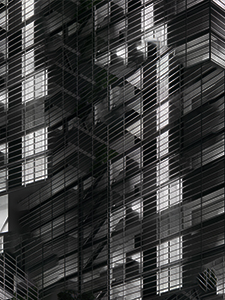
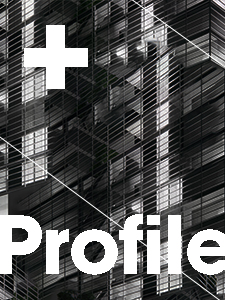
color effect

diff --git a/index.html b/index.html
@@ -51,7 +51,12 @@
         <div class="dot">
           <a href="19.html">
             <img
+              class="imgOrg"
               src="./thumb19.png"
+            />
+            <img
+              class="imgHover"
+              src="./thumb19Mod.png"
             />
           </a>
           <span class="dot__span">City Reincarnation</span>
@@ -59,7 +64,12 @@
         <div class="dot">
           <a href="18.html">
             <img
+              class="imgOrg"
               src="./thumb18.png"
+            />
+            <img
+              class="imgHover"
+              src="./thumb18Mod.png"
             />
           </a>
           <span class="dot__span">The 6th Extiction</span>
@@ -67,7 +77,12 @@
         <div class="dot">
           <a href="17.html">
             <img
+              class="imgOrg"
               src="./대표사진.jpeg"
+            />
+            <img
+              class="imgHover"
+              src="./대표사진Mod.jpeg"
             />
           </a>
           <span class="dot__span">The membrane</span>
@@ -75,7 +90,12 @@
         <div class="dot">
           <a href="16.html">
             <img
+              class="imgOrg"
               src="src/웹사이트 제작용 사진/16. Terraformed Space/대표사진, 텍스트/16thumb.jpg"
+            />
+            <img
+              class="imgHover"
+              src="src/웹사이트 제작용 사진/16. Terraformed Space/대표사진, 텍스트/16thumbMod.jpg"
             />
           </a>
           <span class="dot__span">Terraformed Space</span>
@@ -83,7 +103,12 @@
         <div class="dot">
           <a href="0.html">
             <img
+              class="imgOrg"
               src="src/웹사이트 제작용 사진/15. Micro Climate Control Tower/대표사진, 텍스트/15thumb.jpg"
+            />
+            <img
+              class="imgHover"
+              src="src/웹사이트 제작용 사진/15. Micro Climate Control Tower/대표사진, 텍스트/15thumbMod.jpg"
             />
           </a>
           <span class="dot__span">Micro Climate Control Tower</span>
@@ -91,7 +116,12 @@
         <div class="dot">
           <a href="1.html">
             <img
+              class="imgOrg"
               src="src/웹사이트 제작용 사진/14. Vertiport/대표사진, 텍스트/제목 없음-1.jpg"
+            />
+            <img
+              class="imgHover"
+              src="src/웹사이트 제작용 사진/14. Vertiport/대표사진, 텍스트/제목 없음-1mod.jpg"
             />
           </a>
           <span class="dot__span">Vertiport</span>
@@ -100,7 +130,12 @@
         <div class="dot">
           <a href="2.html">
             <img
+              class="imgOrg"
               src="src/웹사이트 제작용 사진/13. Encounter/대표사진, 텍스트/제목 없음-1.jpg"
+            />
+            <img
+              class="imgHover"
+              src="src/웹사이트 제작용 사진/13. Encounter/대표사진, 텍스트/제목 없음-1mod.jpg"
             />
           </a>
           <span class="dot__span">Encounter</span>
@@ -109,7 +144,12 @@
         <div class="dot">
           <a href="3.html">
             <img
+              class="imgOrg"
               src="src/웹사이트 제작용 사진/12. Open Frame/대표사진, 텍스트/제목 없음-1.jpg"
+            />
+            <img
+              class="imgHover"
+              src="src/웹사이트 제작용 사진/12. Open Frame/대표사진, 텍스트/제목 없음-1mod.jpg"
             />
           </a>
           <span class="dot__span">Open Frame</span>
@@ -118,7 +158,12 @@
         <div class="dot">
           <a href="4.html">
             <img
+              class="imgOrg"
               src="src/웹사이트 제작용 사진/11. Framework/대표사진, 텍스트/제목 없음-1.jpg"
+            />
+            <img
+              class="imgHover"
+              src="src/웹사이트 제작용 사진/11. Framework/대표사진, 텍스트/제목 없음-1mod.jpg"
             />
           </a>
           <span class="dot__span">Framework</span>
@@ -127,7 +172,12 @@
         <div class="dot">
           <a href="5.html">
             <img
+              class="imgOrg"
               src="src/웹사이트 제작용 사진/10. Trinity/대표사진, 텍스트/제목 없음-1.jpg"
+            />
+            <img
+              class="imgHover"
+              src="src/웹사이트 제작용 사진/10. Trinity/대표사진, 텍스트/제목 없음-1mod.jpg"
             />
           </a>
           <span class="dot__span">Trinity</span>
@@ -136,7 +186,12 @@
         <div class="dot">
           <a href="6.html">
             <img
+              class="imgOrg"
               src="src/웹사이트 제작용 사진/9. Panorama/대표사진, 텍스트/제목 없음-1.jpg"
+            />
+            <img
+              class="imgHover"
+              src="src/웹사이트 제작용 사진/9. Panorama/대표사진, 텍스트/제목 없음-1mod.jpg"
             />
           </a>
           <span class="dot__span">Panorama</span>
@@ -145,7 +200,12 @@
         <div class="dot">
           <a href="7.html">
             <img
+              class="imgOrg"
               src="src/웹사이트 제작용 사진/8. Adabtive Frame/대표사진, 텍스트/제목 없음-1.jpg"
+            />
+            <img
+              class="imgHover"
+              src="src/웹사이트 제작용 사진/8. Adabtive Frame/대표사진, 텍스트/제목 없음-1mod.jpg"
             />
           </a>
           <span class="dot__span">Adabtive Frame</span>
@@ -154,7 +214,12 @@
         <div class="dot">
           <a href="8.html">
             <img
+              class="imgOrg"
               src="src/웹사이트 제작용 사진/7. Riminiscence/대표사진, 텍스트/제목 없음-1.jpg"
+            />
+            <img
+              class="imgHover"
+              src="src/웹사이트 제작용 사진/7. Riminiscence/대표사진, 텍스트/제목 없음-1mod.jpg"
             />
           </a>
           <span class="dot__span">Riminiscence</span>
@@ -163,7 +228,12 @@
         <div class="dot">
           <a href="9.html">
             <img
+              class="imgOrg"
               src="src/웹사이트 제작용 사진/6. Introvert/대표사진, 텍스트/제목 없음-1.jpg"
+            />
+            <img
+              class="imgHover"
+              src="src/웹사이트 제작용 사진/6. Introvert/대표사진, 텍스트/제목 없음-1mod.jpg"
             />
           </a>
           <span class="dot__span">Introvert</span>
@@ -172,7 +242,12 @@
         <div class="dot">
           <a href="10.html">
             <img
+              class="imgOrg"
               src="src/웹사이트 제작용 사진/5. Neoclassic/대표사진, 텍스트/제목 없음-1.jpg"
+            />
+            <img
+              class="imgHover"
+              src="src/웹사이트 제작용 사진/5. Neoclassic/대표사진, 텍스트/제목 없음-1mod.jpg"
             />
           </a>
           <span class="dot__span">Neoclassic</span>
@@ -190,7 +265,12 @@
         <div class="dot">
           <a href="12.html">
             <img
+              class="imgOrg"
               src="src/웹사이트 제작용 사진/2.Banner Design/대표사진, 텍스트/제목 없음-1.jpg"
+            />
+            <img
+              class="imgHover"
+              src="src/웹사이트 제작용 사진/2.Banner Design/대표사진, 텍스트/제목 없음-1mod.jpg"
             />
           </a>
           <span class="dot__span">Banner Design</span>
@@ -199,7 +279,12 @@
         <div class="dot">
           <a href="13.html">
             <img
+              class="imgOrg"
               src="src/웹사이트 제작용 사진/1. Artworks/대표사진, 텍스트/제목 없음-1.jpg"
+            />
+            <img
+              class="imgHover"
+              src="src/웹사이트 제작용 사진/1. Artworks/대표사진, 텍스트/제목 없음-1mod.jpg"
             />
           </a>
           <span class="dot__span">Artworks</span>
@@ -207,7 +292,8 @@
 
         <div class="dot">
           <a href="profile.html">
-            <img src="src/웹사이트 제작용 사진/0. profile/1.jpg" />
+            <img class="imgOrg" src="src/웹사이트 제작용 사진/0. profile/1.jpg" />
+            <img class="imgHover" src="src/웹사이트 제작용 사진/0. profile/1mod.jpg" />
           </a>
           <span class="dot__span">Profile</span>
         </div>

diff --git a/css/container.css b/css/container.css
@@ -13,6 +13,8 @@
   position: relative;
 }
 
+
+
 .dot__span {
   display: none;
   position: absolute;
@@ -21,9 +23,18 @@
   font-weight: 200;
 }
 
-.dot a:hover {
-  opacity: 0.7;
-  transition: all ease-in-out 0.2s;
+.dot img {
+  position:relative;
+}
+
+.dot img.imgHover{
+  display:none;
+}
+.dot:hover img.imgOrg{
+  display:none;
+}
+.dot:hover img.imgHover{
+  display:block
 }
 
 .dot:hover .dot__span {
